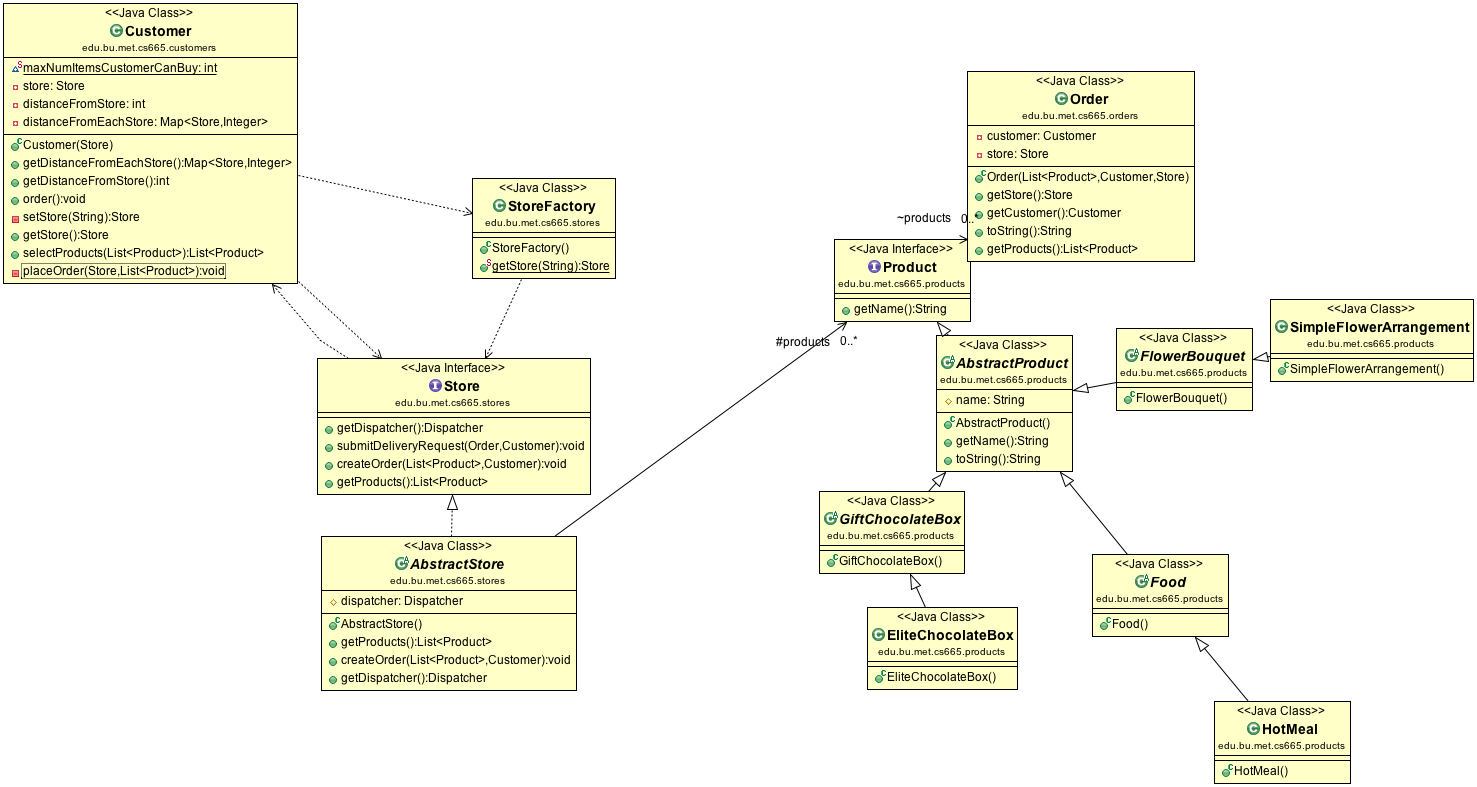
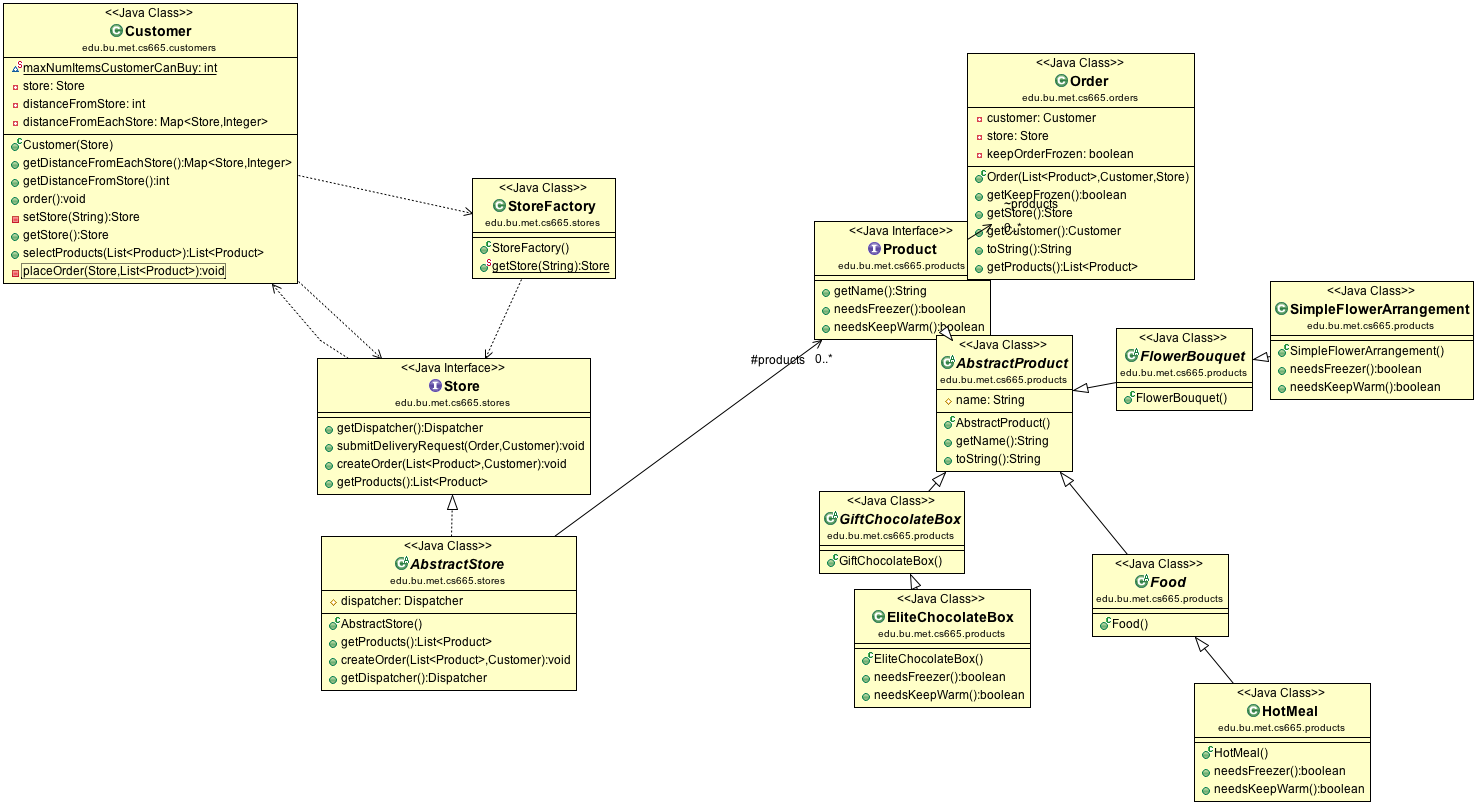
Added cases for frozen foods, trucks with freezers, and the logic for when to assign meals to freezer trucks.

diff --git a/src/main/java/edu/bu/met/cs665/Main.java b/src/main/java/edu/bu/met/cs665/Main.java
@@ -1,12 +1,18 @@
 package edu.bu.met.cs665;
 
+import java.util.ArrayList;
+import java.util.Arrays;
+import java.util.List;
+import java.util.Random;
 import edu.bu.met.cs665.customers.Customer;
 import edu.bu.met.cs665.dispatchers.Dispatcher;
 import edu.bu.met.cs665.dispatchers.StoreDispatcher;
 import edu.bu.met.cs665.stores.Store;
 import edu.bu.met.cs665.stores.StoreFactory;
+import edu.bu.met.cs665.traffic.TrafficThread;
 import edu.bu.met.cs665.vehicles.TaxiVehicle;
 import edu.bu.met.cs665.vehicles.VanVehicle;
+import edu.bu.met.cs665.vehicles.VanVehicleWithFreezer;
 import edu.bu.met.cs665.vehicles.Vehicle;
 
 public class Main {
@@ -23,35 +29,44 @@ public class Main {
 //    String flowerStore = "Flower Store";
 //    String foodStore = "Food Store";
 //    String partyStore = "Party Store";
-    Store birthdayStore = StoreFactory.getStore("Birthday Store");
-    Store candyStore = StoreFactory.getStore("Candy Store");
-    Store flowerStore = StoreFactory.getStore("Flower Store");
-    Store foodStore = StoreFactory.getStore("Food Store");
-    Store partyStore = StoreFactory.getStore("Party Store");
-    // 10 customer orders
-    Customer customer1 = new Customer(birthdayStore);
-    customer1.order();
-    Customer customer2 = new Customer(birthdayStore);
-    customer2.order();
-    Customer customer3 = new Customer(candyStore);
-    customer3.order();
-    Customer customer4 = new Customer(candyStore);
-    customer4.order();
-    Customer customer5 = new Customer(flowerStore);
-    customer5.order();
-    Customer customer6 = new Customer(flowerStore);
-    customer6.order();
-    Customer customer7 = new Customer(foodStore);
-    customer7.order();
-    Customer customer8 = new Customer(foodStore);
-    customer8.order();
-    Customer customer9 = new Customer(partyStore);
-    customer9.order();
-    Customer customer10 = new Customer(partyStore);
-    customer10.order();
+//    Store birthdayStore = StoreFactory.getStore("Birthday Store");
+//    Store candyStore = StoreFactory.getStore("Candy Store");
+//    Store flowerStore = StoreFactory.getStore("Flower Store");
+//    Store foodStore = StoreFactory.getStore("Food Store");
+//    Store partyStore = StoreFactory.getStore("Party Store");
+    // Create the store instances using the factory pattern
+    List<Store> availableStores = new ArrayList<>(Arrays.asList(StoreFactory.getStore("Birthday Store"),
+        StoreFactory.getStore("Candy Store"), StoreFactory.getStore("Flower Store"),
+        StoreFactory.getStore("Food Store"), StoreFactory.getStore("Party Store")));
+    // Create numOrders number of initial orders
+    int numOrders = 20;
+    for(int i=0; i < numOrders; i++){
+      new Customer(availableStores.get(new Random().nextInt(availableStores.size()))).order();
+    }
+//    // 10 customer orders
+//    Customer customer1 = new Customer(birthdayStore);
+//    customer1.order();
+//    Customer customer2 = new Customer(birthdayStore);
+//    customer2.order();
+//    Customer customer3 = new Customer(candyStore);
+//    customer3.order();
+//    Customer customer4 = new Customer(candyStore);
+//    customer4.order();
+//    Customer customer5 = new Customer(flowerStore);
+//    customer5.order();
+//    Customer customer6 = new Customer(flowerStore);
+//    customer6.order();
+//    Customer customer7 = new Customer(foodStore);
+//    customer7.order();
+//    Customer customer8 = new Customer(foodStore);
+//    customer8.order();
+//    Customer customer9 = new Customer(partyStore);
+//    customer9.order();
+//    Customer customer10 = new Customer(partyStore);
+//    customer10.order();
     
     // 10 drivers
-    Vehicle vehicle1 = new VanVehicle();
+    Vehicle vehicle1 = new VanVehicleWithFreezer();
     Vehicle vehicle2 = new TaxiVehicle();
     Vehicle vehicle3 = new VanVehicle();
     Vehicle vehicle4 = new TaxiVehicle();
@@ -59,11 +74,12 @@ public class Main {
     Vehicle vehicle6 = new TaxiVehicle();
     Vehicle vehicle7 = new VanVehicle();
     Vehicle vehicle8 = new TaxiVehicle();
-    Vehicle vehicle9 = new VanVehicle();
+    Vehicle vehicle9 = new VanVehicleWithFreezer();
     Vehicle vehicle10 = new TaxiVehicle();
     
-//    Thread systemMonitorThread = new Thread(new SystemMonitorThread());
-//    systemMonitorThread.start();
+    // Kick off a thread that "monitors" the traffic by injecting traffic events into the system
+    Thread trafficMonitorThread = new Thread(new TrafficThread());
+    trafficMonitorThread.start();
     Dispatcher dispatcher = StoreDispatcher.getInstance();
     dispatcher.dispatchVehicles();
     // 1 high traffic event

diff --git a/src/main/java/edu/bu/met/cs665/dispatchers/StoreDispatcher.java b/src/main/java/edu/bu/met/cs665/dispatchers/StoreDispatcher.java
@@ -15,12 +15,15 @@ import edu.bu.met.cs665.vehicles.Vehicle;
  * @author Richard Hanks
  *
  */
+
+
 public class StoreDispatcher implements Dispatcher {
   List<Vehicle> registeredVehicles = new ArrayList<>();
   List<Store> registeredStores = new ArrayList<>();
   List<Order> ordersNotScheduled = new ArrayList<>();
   List<Order> ordersInTransit = new ArrayList<>();
   List<Order> ordersDeliveryComplete = new ArrayList<>();
+  private boolean increasedTraffic = false;
   
   private static StoreDispatcher storeDispatcherInstance;
   
@@ -85,9 +88,23 @@ public class StoreDispatcher implements Dispatcher {
       for(Order order: this.getOrdersNotScheduled()){
         // Find the vehicle that is marked as available for deliveries and has the smallest total distance
         for(Vehicle vehicle: this.registeredVehicles){
+          // If the order needs to be frozen and the total distance to travel > 2, check that the current vehicle has a freezer
           // If vehicle is available for deliveries
           int totalVehicleDistance = StoreDispatcher.getTotalDistance(order.getStore(), order.getCustomer(), vehicle);
+          // getStatus() tells us if the vehicle is available for getting deliveries
           if(vehicle.getStatus()){
+            // If this order is frozen and either the total distance is greater than two or if there is a high traffic event
+            if(order.getKeepFrozen() && (totalVehicleDistance > 2 || this.increasedTraffic)){
+              // Current vehicle is unable to transport this frozen product, so continue to the next vehicle
+              if(!vehicle.canTransportFrozen()){
+                continue;
+              }else{
+                System.out.println("***********************************");
+                System.out.println("Frozen meal assigned to vehicle " + vehicle.getVIN());
+                System.out.println("***********************************");
+
+              }
+            }
             // If this is the first time through the vehicle for loop, set deliveryVehicle to the first instance
             if (deliveryVehicle == null){
               deliveryVehicle = vehicle;
@@ -220,6 +237,17 @@ public class StoreDispatcher implements Dispatcher {
     if(this.registeredStores.contains(store)){
       this.registeredStores.remove(this.registeredStores.indexOf(store));
     }
+  }
+  
+  public void setIncreasedTraffic(boolean increased){
+    this.increasedTraffic = increased;
+    System.out.println("************************************************************");
+    if(this.increasedTraffic){
+      System.out.println("There is increased traffic at this time.");
+    }else{
+      System.out.println("Traffic levels are normal.");
+    }
+    System.out.println("************************************************************");
   }
 
 }

diff --git a/src/main/java/edu/bu/met/cs665/traffic/TrafficThread.java b/src/main/java/edu/bu/met/cs665/traffic/TrafficThread.java
@@ -1,0 +1,31 @@
+package edu.bu.met.cs665.traffic;
+
+import edu.bu.met.cs665.dispatchers.Dispatcher;
+import edu.bu.met.cs665.dispatchers.StoreDispatcher;
+
+/**
+ * A class for running a thread that mimics a traffic reporting service.
+ * This will interject a high traffic event into the simulation.
+ * @author Rich
+ *
+ */
+public class TrafficThread implements Runnable{
+
+  @Override
+  public void run() {
+    Dispatcher dispatcher = StoreDispatcher.getInstance();
+    try {
+      // Wait 2 seconds and then inject an increased traffic event
+      Thread.sleep(1000);
+      dispatcher.setIncreasedTraffic(true);
+      // Wait 4 more seconds and then set the traffic level back to normal (less traffic)
+      Thread.sleep(2000);
+      dispatcher.setIncreasedTraffic(false);
+    } catch (InterruptedException e) {
+      // TODO Auto-generated catch block
+      e.printStackTrace();
+    }
+    
+  }
+
+}

diff --git a/src/main/java/edu/bu/met/cs665/orders/Order.java b/src/main/java/edu/bu/met/cs665/orders/Order.java
@@ -9,11 +9,24 @@ public class Order {
     private Customer customer;
     List<Product> products;
     private Store store;
+    private boolean keepOrderFrozen;
     
     public Order(List<Product> products, Customer customer, Store store){
+      // Determine if this order will need to be frozen based on the products in the order
+      for(Product product: products){
+        if(product.needsFreezer()){
+          // If a single product needs to be frozen, the whole order needs to be frozen.
+          this.keepOrderFrozen = true;
+          break;
+        }
+      }
       this.products = products;
       this.customer = customer;
       this.store = store;
+    }
+    
+    public boolean getKeepFrozen(){
+      return this.keepOrderFrozen;
     }
     
     public Store getStore(){

diff --git a/src/main/java/edu/bu/met/cs665/vehicles/VehicleThread.java b/src/main/java/edu/bu/met/cs665/vehicles/VehicleThread.java
@@ -16,6 +16,7 @@ public class VehicleThread implements Runnable{
   private Order order;
   private int totalDistance;
   private Dispatcher dispatcher;
+  private boolean increasedTraffic;
   
   
   public VehicleThread(Vehicle vehicle, Order order, int totalDistance){
@@ -23,6 +24,7 @@ public class VehicleThread implements Runnable{
     this.order = order;
     this.totalDistance = totalDistance;
     this.dispatcher = StoreDispatcher.getInstance();
+    this.increasedTraffic = false;
   }
   @Override
   public void run() {
@@ -66,5 +68,7 @@ public class VehicleThread implements Runnable{
     // Order has been delivered, this vehicle no longer has an order so set to null
     vehicle.setCurrentOrderToNull();
   }
+  
+
 
 }

diff --git a/src/main/java/edu/bu/met/cs665/products/SimpleFlowerArrangement.java b/src/main/java/edu/bu/met/cs665/products/SimpleFlowerArrangement.java
@@ -5,4 +5,16 @@ public class SimpleFlowerArrangement extends FlowerBouquet{
     public SimpleFlowerArrangement(){
       this.name = "Simple Flower Arrangement";
     }
+
+    @Override
+    public boolean needsFreezer() {
+      // TODO Auto-generated method stub
+      return false;
+    }
+
+    @Override
+    public boolean needsKeepWarm() {
+      // TODO Auto-generated method stub
+      return false;
+    }
 }

diff --git a/src/main/java/edu/bu/met/cs665/products/SimpleChocolateBox.java b/src/main/java/edu/bu/met/cs665/products/SimpleChocolateBox.java
@@ -4,4 +4,16 @@ public class SimpleChocolateBox extends GiftChocolateBox{
     public SimpleChocolateBox(){
       this.name = "Simple Chocolate Box";
     }
+
+    @Override
+    public boolean needsFreezer() {
+      // TODO Auto-generated method stub
+      return false;
+    }
+
+    @Override
+    public boolean needsKeepWarm() {
+      // TODO Auto-generated method stub
+      return false;
+    }
 }

diff --git a/src/main/java/edu/bu/met/cs665/dispatchers/Dispatcher.java b/src/main/java/edu/bu/met/cs665/dispatchers/Dispatcher.java
@@ -17,6 +17,7 @@ public interface Dispatcher {
   public void removeStore(Store store);
   public void dispatchVehicles();
   public void displayMessageFromVehicle(String message);
+  public void setIncreasedTraffic(boolean increased);
   
   // Handle the interaction with the stores
   // Receive an order from a customer and add it to the collection of orders

diff --git a/src/main/java/edu/bu/met/cs665/products/EliteChocolateBox.java b/src/main/java/edu/bu/met/cs665/products/EliteChocolateBox.java
@@ -6,4 +6,16 @@ public class EliteChocolateBox extends GiftChocolateBox {
     this.name = "Elite Chocolate Box";
   }
 
+  @Override
+  public boolean needsFreezer() {
+    // TODO Auto-generated method stub
+    return false;
+  }
+
+  @Override
+  public boolean needsKeepWarm() {
+    // TODO Auto-generated method stub
+    return false;
+  }
+
 }

diff --git a/src/main/java/edu/bu/met/cs665/products/HotMeal.java b/src/main/java/edu/bu/met/cs665/products/HotMeal.java
@@ -6,4 +6,16 @@ public class HotMeal extends Food{
     this.name = "Hot Meal";
   }
 
+  @Override
+  public boolean needsFreezer() {
+    // TODO Auto-generated method stub
+    return false;
+  }
+
+  @Override
+  public boolean needsKeepWarm() {
+    // TODO Auto-generated method stub
+    return true;
+  }
+
 }

diff --git a/src/main/java/edu/bu/met/cs665/products/EliteFlowerArrangement.java b/src/main/java/edu/bu/met/cs665/products/EliteFlowerArrangement.java
@@ -6,4 +6,16 @@ public EliteFlowerArrangement() {
     this.name = "Elite Flower Arrangement";
   }
 
+@Override
+public boolean needsFreezer() {
+  // TODO Auto-generated method stub
+  return false;
+}
+
+@Override
+public boolean needsKeepWarm() {
+  // TODO Auto-generated method stub
+  return false;
+}
+
 }

diff --git a/src/main/java/edu/bu/met/cs665/products/ColdMeal.java b/src/main/java/edu/bu/met/cs665/products/ColdMeal.java
@@ -6,4 +6,15 @@ public class ColdMeal extends Food{
   public ColdMeal(){
     this.name = "Cold Meal";
   }
+
+  @Override
+  public boolean needsFreezer() {
+    return true;
+  }
+
+  @Override
+  public boolean needsKeepWarm() {
+    // TODO Auto-generated method stub
+    return false;
+  }
 }
